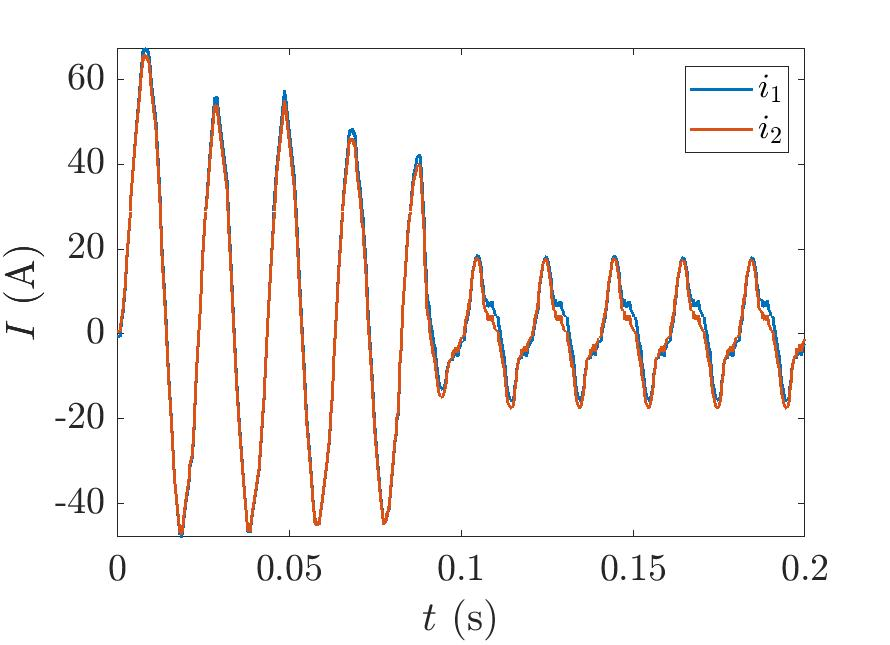
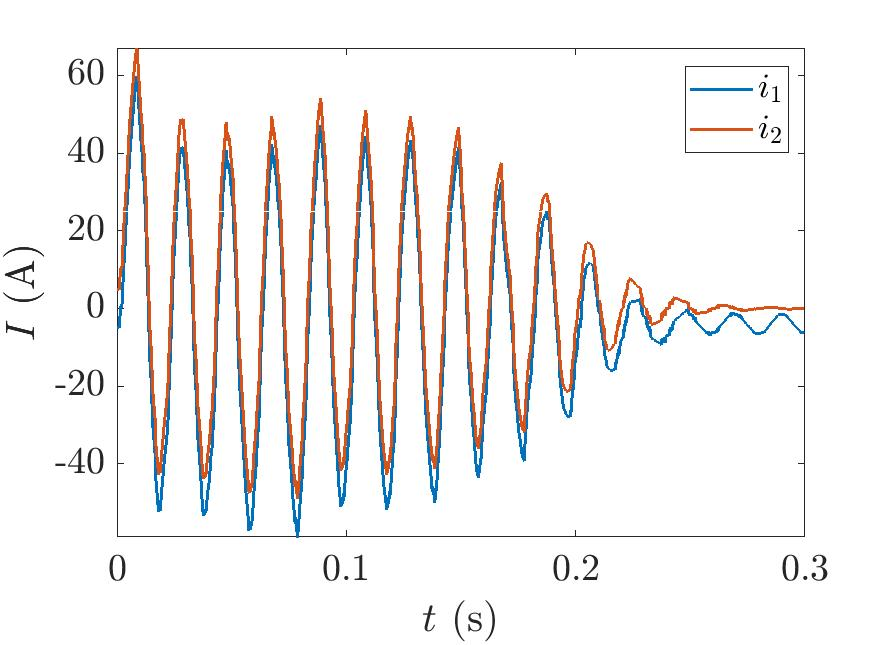
Rescaled motor model based on the torque-equation characteristic time

diff --git a/motor2.m b/motor2.m
@@ -14,9 +14,9 @@ set(0, 'defaultLegendInterpreter', 'Latex')
 %% Data
 D = load('datos.mat');
 
-i1 = 0.5;
+i1 = 10*0.5;
 f = 50;
-R1 = 1;
+R1 = 2;
 L1 = 0.011;
 R2 = 2;
 L2 = 0.013;
@@ -25,34 +25,37 @@ Lu = 0.515;
 n1 = 3000;
 n = 2860;
 Vp = 380;
+p = 1;
+ns = 60*f/p;
 
-tc = Lu*i1/Vp;
+% Internal mechanical torque (N m)
+Mc = 3*R2*i1^2/(2*pi*ns/60);
+% Moment of inertia (kg m^2)
+J = 0.02;
+
+% Nondimensional resistive torque (Tr/Mmi)
+Mr = 0.125;
+% Caracteristic (starting) time
+tc = J*2*pi/60*ns/(Mc*(1 - Mr));
 
 tt = D.t/tc;
 V = D.v1;
 
-N = 10;
+N = 15;
 V = repmat(V, [N, 1]);
 tt = linspace(tt(1), N*tt(end), length(V))';
 
 % The prescribed voltage signal can be replaced by
-% Vp*sin(2*pi*f*tt*tc).
+% V = Vp*cos(2*pi*f*tt*tc);
 % It might be useful to compute the permanent state solution analytically.
 
 %% Initial conditions and dimensionless parameters
-Lambda1 = L1/Lu;
-Lambda2 = L2/Lu;
-alpha = 1 + Lambda1;
-beta = 1 + Lambda2;
+alpha = (L1 + Lu)*i1/Vp/tc;
+beta = Lu*i1/Vp/tc;
+gamma = (L2 + Lu)*i1/Vp/tc;
+
 nu = i1*R1/Vp;
 rho = R2/R1;
-p = 1;
-ns = 60*f/p;
-Tc = (2*pi*ns/60)/(Vp*i1);
-
-% Play around with ji and Tr
-ji = 2e6;
-Tr = 3e4;
 
 xi1 = -1;
 xi2 = 1;
@@ -61,7 +64,10 @@ s0 = 1;
 %% Solution
 
 % Numerical solution using an RK4/5 method
-F = ode23s(@(t,y) motorODE(t, y, alpha, beta, nu, rho, Tr, ji, V, tt),...
+% F = ode23s(@(t,y) motorODE(t, y, alpha, beta, nu, rho, Mr, ji, V, tt),...
+%     tt, [xi1 xi2 s0]);
+
+F = ode23s(@(t,y) motorODE2(t, y, alpha, beta, gamma, nu, rho, Mr, V, tt),...
     tt, [xi1 xi2 s0]);
 
 tau = F.x';
@@ -94,7 +100,7 @@ ylabel('$I$ (A)')
 saveas(gcf, './figs/I_vs_t', 'jpg')
 
 figure,
-plot(tau*tc, T*Tc, '-', tau*tc, T*0 + Tr*Tc, '--')
+plot(tau*tc, T*Mc, '-', tau*tc, T*0 + Mr*Mc, '--')
 legend('$T_i$', '$T_r$')
 xlabel('$t$ (s)')
 ylabel('$T$ (Nm)')

diff --git a/motorODE2.m b/motorODE2.m
@@ -1,0 +1,11 @@
+function dydt = motorODE2(t, y, alpha, beta, gamma, nu, rho, Mr, Vt, tau)
+
+dydt = zeros(3,1);
+
+dydt(1) = -(gamma*y(3)*interp1(tau, Vt, t) - gamma*nu*y(3)*y(1) - beta*nu*rho*y(2))/...
+    (y(3)*(beta^2 - alpha*gamma));
+dydt(2) = (-beta*y(3)*interp1(tau, Vt, t) + beta*nu*y(3)*y(1) + alpha*nu*rho*y(2))/...
+    (y(3)*(beta^2 - alpha*gamma));
+dydt(3) = -y(2)^2/y(3) + Mr;
+
+end
